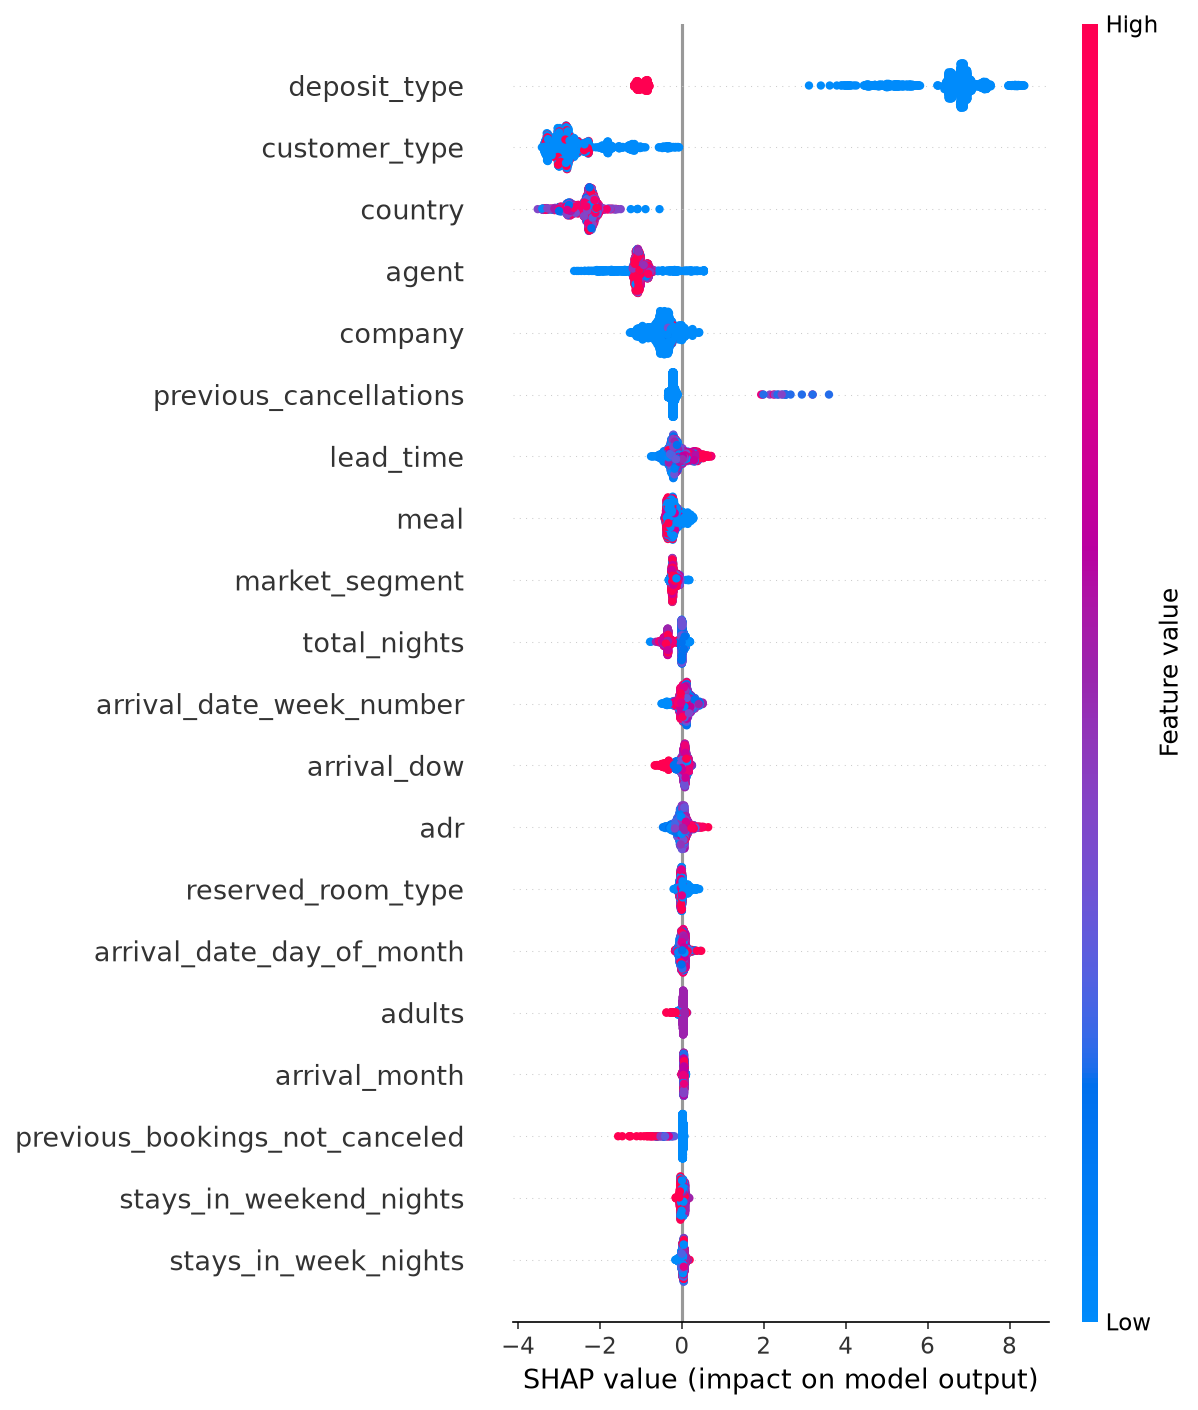
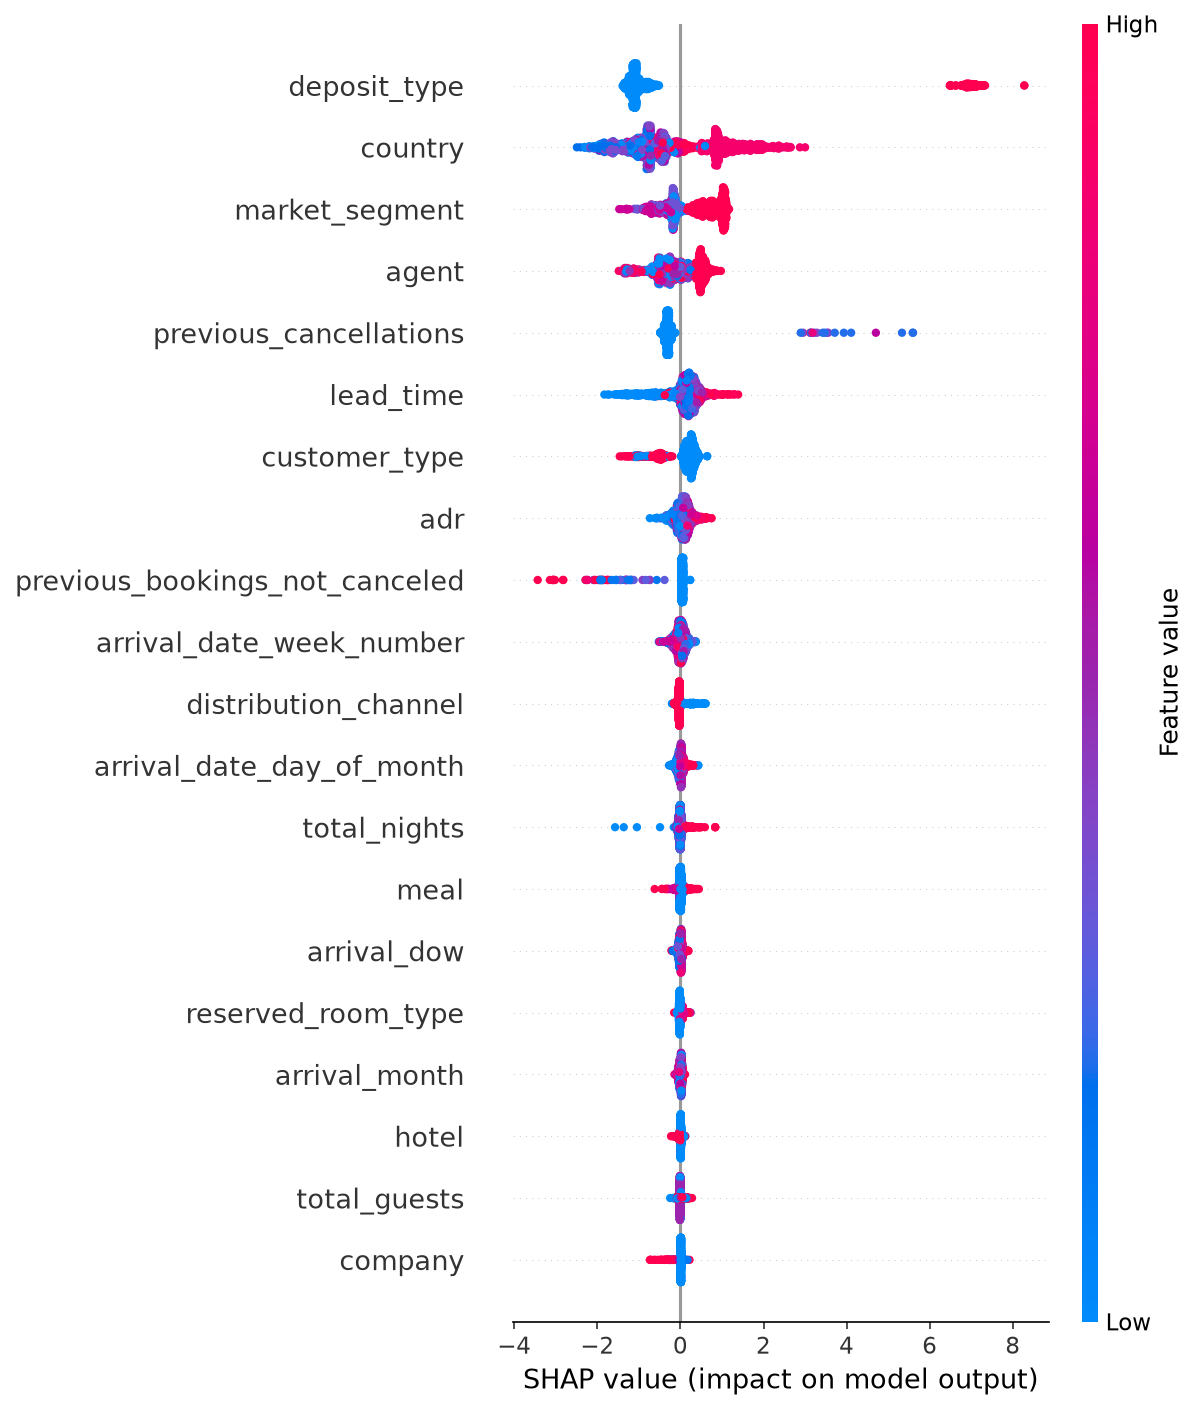
Switch main model to LightGBM and refresh all results, plots and README
Claude-Session: https://claude.ai/code/session_01BaMqLk4VUpKL539A4cXSQP

diff --git a/src/hotel_risk/models.py b/src/hotel_risk/models.py
@@ -1,8 +1,9 @@
-"""Model pipelines for Phase 2: a linear baseline and a gradient-boosted model."""
+"""Model pipelines: a linear baseline, LightGBM (the main model) and scikit-learn gradient boosting."""
 from __future__ import annotations
 
 from sklearn.compose import ColumnTransformer
 from sklearn.ensemble import HistGradientBoostingClassifier
+from lightgbm import LGBMClassifier
 from sklearn.linear_model import LogisticRegression
 from sklearn.pipeline import Pipeline
 from sklearn.preprocessing import OneHotEncoder, OrdinalEncoder, StandardScaler
@@ -19,8 +20,23 @@ def make_baseline() -> Pipeline:
     return Pipeline([("pre", pre), ("clf", LogisticRegression(max_iter=1000, C=1.0))])
 
 
+def _ordinal_pre() -> ColumnTransformer:
+    return ColumnTransformer([
+        ("cat", OrdinalEncoder(handle_unknown="use_encoded_value", unknown_value=-1,
+                               encoded_missing_value=-1, min_frequency=50), CATEGORICAL),
+        ("num", "passthrough", NUMERIC),
+    ])
+
+
 def make_gbm(random_state: int = 0) -> Pipeline:
-    """Ordinal-encoded categoricals (handled natively as categories) -> HistGradientBoosting."""
+    """Main model: LightGBM on ordinal-encoded categoricals."""
+    clf = LGBMClassifier(n_estimators=400, learning_rate=0.05, num_leaves=31,
+                         random_state=random_state, verbose=-1)
+    return Pipeline([("pre", _ordinal_pre()), ("clf", clf)])
+
+
+def make_hgb(random_state: int = 0) -> Pipeline:
+    """scikit-learn HistGradientBoosting, kept for the model comparison (no extra dependency)."""
     pre = ColumnTransformer([
         ("cat", OrdinalEncoder(handle_unknown="use_encoded_value", unknown_value=-1,
                                encoded_missing_value=-1, min_frequency=50), CATEGORICAL),

diff --git a/src/hotel_risk/compare_models.py b/src/hotel_risk/compare_models.py
@@ -1,7 +1,7 @@
 """Compare several model families on the same temporal split.
 
-Always runs: logistic regression, HistGradientBoosting, random forest (scikit-learn).
-Runs if installed: LightGBM, XGBoost.
+Always runs: logistic regression, HistGradientBoosting, random forest, LightGBM.
+Runs if installed: XGBoost.
 
 Run: python -m hotel_risk.compare_models data/raw/hotel_bookings.csv
 Writes reports/model_comparison.json
@@ -20,7 +20,7 @@ from sklearn.preprocessing import OrdinalEncoder
 
 from .data import CATEGORICAL, NUMERIC, TARGET, booking_time_features, clean, load_raw, temporal_split
 from .evaluate import score
-from .models import make_baseline, make_gbm
+from .models import make_baseline, make_gbm, make_hgb
 
 
 def _ordinal_pre() -> ColumnTransformer:
@@ -33,16 +33,11 @@ def _ordinal_pre() -> ColumnTransformer:
 def candidates() -> dict:
     out = {
         "logistic_regression": make_baseline,
-        "hist_gbm": make_gbm,
+        "hist_gbm": make_hgb,
         "random_forest": lambda: Pipeline([("pre", _ordinal_pre()), ("clf", RandomForestClassifier(
             n_estimators=200, min_samples_leaf=5, n_jobs=-1, random_state=0))]),
+        "lightgbm": make_gbm,
     }
-    try:
-        from lightgbm import LGBMClassifier
-        out["lightgbm"] = lambda: Pipeline([("pre", _ordinal_pre()), ("clf", LGBMClassifier(
-            n_estimators=400, learning_rate=0.05, num_leaves=31, random_state=0, verbose=-1))])
-    except Exception as e:  # not installed, or a native library (e.g. libomp on macOS) is missing
-        print(f"skipping optional model: {e.__class__.__name__}")
     try:
         from xgboost import XGBClassifier
         out["xgboost"] = lambda: Pipeline([("pre", _ordinal_pre()), ("clf", XGBClassifier(

diff --git a/src/hotel_risk/explain.py b/src/hotel_risk/explain.py
@@ -54,6 +54,8 @@ def run(path: str, use_shap: bool = False) -> dict:
             names = [n.split("__", 1)[-1] for n in pre.get_feature_names_out()]
             explainer = shap.TreeExplainer(clf)
             sv = explainer.shap_values(Xt)
+            if isinstance(sv, list):  # older shap returns one array per class
+                sv = sv[1]
             plt.figure()
             shap.summary_plot(sv, Xt, feature_names=names, show=False)
             plt.tight_layout()

diff --git a/src/hotel_risk/evaluate.py b/src/hotel_risk/evaluate.py
@@ -30,7 +30,7 @@ def score(y, p) -> dict:
 def run(path: str) -> dict:
     df = clean(load_raw(path))
     out: dict = {}
-    models = {"logistic_baseline": make_baseline, "hist_gbm": make_gbm}
+    models = {"logistic_baseline": make_baseline, "lightgbm": make_gbm}
 
     train, test = temporal_split(df)
     for name, factory in models.items():

diff --git a/README.md b/README.md
@@ -12,9 +12,9 @@ actually means about 70%), a dollars-and-cents decision layer, and a small API y
 - Predicts cancellations using only what the hotel knows when the booking comes in. No peeking at
   how the stay ended.
 - Tests on bookings that arrive *after* the training period, the way a real deployment would.
-  A random split flatters the model (AUC 0.929 vs 0.852). We report the less flattering number.
-- Turns probabilities into an overbooking policy worth about **$1.22M** on the test period
-  under illustrative cost assumptions, roughly 38% of what a perfect fortune teller would earn.
+  A random split flatters the model (AUC 0.924 vs 0.860). We report the less flattering number.
+- Turns probabilities into an overbooking policy worth about **$1.25M** on the test period
+  under illustrative cost assumptions, roughly 38.5% of what a perfect fortune teller would earn.
 
 ## Data
 
@@ -79,9 +79,9 @@ Your numbers may differ in the third decimal depending on library versions.
 | Split | Model | ROC-AUC | PR-AUC | Brier |
 |---|---|---|---|---|
 | Temporal | Logistic baseline | 0.836 | 0.789 | 0.161 |
-| Temporal | HistGradientBoosting | **0.852** | **0.807** | **0.156** |
+| Temporal | LightGBM | **0.860** | **0.813** | **0.150** |
 | Random (for comparison) | Logistic baseline | 0.875 | 0.828 | 0.135 |
-| Random | HistGradientBoosting | 0.929 | 0.900 | 0.102 |
+| Random | LightGBM | 0.924 | 0.893 | 0.107 |
 
 The random split looks better because it lets the model learn from bookings that happen later than
 the ones it is tested on. Real hotels don't get to do that, so the temporal numbers are the ones to trust.
@@ -93,16 +93,16 @@ test (2017-03 onward). Calibrators and the decision threshold are fit on the cal
 
 | Test scores | Brier | Log loss | ECE |
 |---|---|---|---|
-| Raw GBM | 0.158 | 0.476 | 0.066 |
-| Platt (sigmoid) | 0.155 | 0.457 | 0.047 |
-| Isotonic | 0.156 | 0.460 | 0.042 |
+| Raw LightGBM | 0.154 | 0.451 | 0.052 |
+| Platt (sigmoid) | 0.152 | 0.448 | 0.045 |
+| Isotonic | 0.153 | 0.450 | 0.044 |
 
 Calibration makes the probabilities more honest without hurting ranking (AUC stays about 0.85).
 
 Two things worth knowing:
 
 - The threshold picked for 80% precision on the calibration slice (0.46) gave 74% precision and
-  60% recall on test. The cancel rate drifted from 34% to 40% between the two periods, so a
+  62% recall on test. The cancel rate drifted from 34% to 40% between the two periods, so a
   threshold tuned on the past doesn't transfer perfectly. Real data does this.
 - The riskiest 10% of bookings were 100% cancellations on test, largely non-refundable-deposit
   bookings, a well-known quirk of this dataset. Don't read that as superhuman skill. The model
@@ -120,13 +120,13 @@ is re-sold, relocation costs 2 nights of ADR plus $50.
 | Policy (test period, 32,778 bookings) | Net value |
 |---|---|
 | No overbooking | $0 |
-| Flag p >= 0.5 | $774k |
-| Flag p >= 0.8 | $679k |
-| **Cost-aware model** | **$1.22M** |
+| Flag p >= 0.5 | $667k |
+| Flag p >= 0.8 | $538k |
+| **Cost-aware model** | **$1.25M** |
 | Perfect foresight (upper bound) | $3.25M |
 
 The cost-aware policy beats fixed thresholds because it accounts for each booking's price and length of
-stay. Across the scenarios in `reports/phase4_impact.json` the value ranges from $0.4M to $3.4M,
+stay. Across the scenarios in `reports/phase4_impact.json` the value ranges from $0.4M to $3.5M,
 so the real answer depends on real operating costs. It also ignores hotel capacity and demand limits
 and treats bookings as independent, so treat the dollars as an illustration, not a forecast.
 
@@ -136,15 +136,16 @@ Permutation importance on the test period (shuffle one feature, see how much ROC
 
 | Feature | AUC drop |
 |---|---|
-| `agent` | 0.119 |
-| `country` | 0.104 |
-| `deposit_type` | 0.082 |
-| `lead_time` | 0.028 |
-| `customer_type` | 0.022 |
+| `country` | 0.107 |
+| `deposit_type` | 0.083 |
+| `agent` | 0.074 |
+| `market_segment` | 0.067 |
+| `lead_time` | 0.032 |
 
-The plot is in `reports/feature_importance.png`, and a SHAP summary (which direction each feature pushes the prediction) is in `reports/shap_summary.png`. Two honest observations: `lead_time` and
-`deposit_type` are the kind of drivers you'd expect, but `agent` and `country` are the top two.
-Those are specific to *these* hotels (travel agent IDs and where guests come from), so a model
+The plot is in `reports/feature_importance.png`, and a SHAP summary (which direction each feature pushes
+the prediction) is in `reports/shap_summary.png`. Two honest observations: `deposit_type`, `lead_time` and
+`market_segment` are the kind of drivers you'd expect, but `country` and `agent` are also near the top.
+Those are specific to *these* hotels (where guests come from, which travel agents book them), so a model
 trained here would not carry over to another hotel unchanged. That is a limitation of the data, not
 something more tuning would fix.
 
@@ -158,13 +159,10 @@ Same temporal split, different model families:
 | XGBoost | 0.858 | 0.811 | 0.151 |
 | **LightGBM** | **0.860** | **0.813** | **0.150** |
 
-LightGBM and XGBoost edge out scikit-learn's HistGradientBoosting by about 0.006-0.008 AUC. I kept
-HistGradientBoosting as the model used everywhere else (calibration, business impact, API) because
-it needs no extra dependency, the gap is small, and the pipeline's conclusions don't hinge on it.
-Swapping in LightGBM is a few lines in `models.py` if you want the extra points.
-`python -m hotel_risk.explain --shap` regenerates the SHAP plot
-(`pip install -r requirements-extra.txt`; on macOS LightGBM and XGBoost also need `libomp`).
-These optional extras are not part of the CI run.
+LightGBM came out on top, so it is the model used everywhere else (calibration, business impact, API).
+The gaps between the boosted models are small, so the ranking among them matters less than the gap to
+the logistic baseline. XGBoost and SHAP are optional extras (`pip install -r requirements-extra.txt`) and are not part of the CI
+run. On macOS, LightGBM and XGBoost need the `libomp` library (`conda install -c conda-forge llvm-openmp`).
 
 ## The API
 
